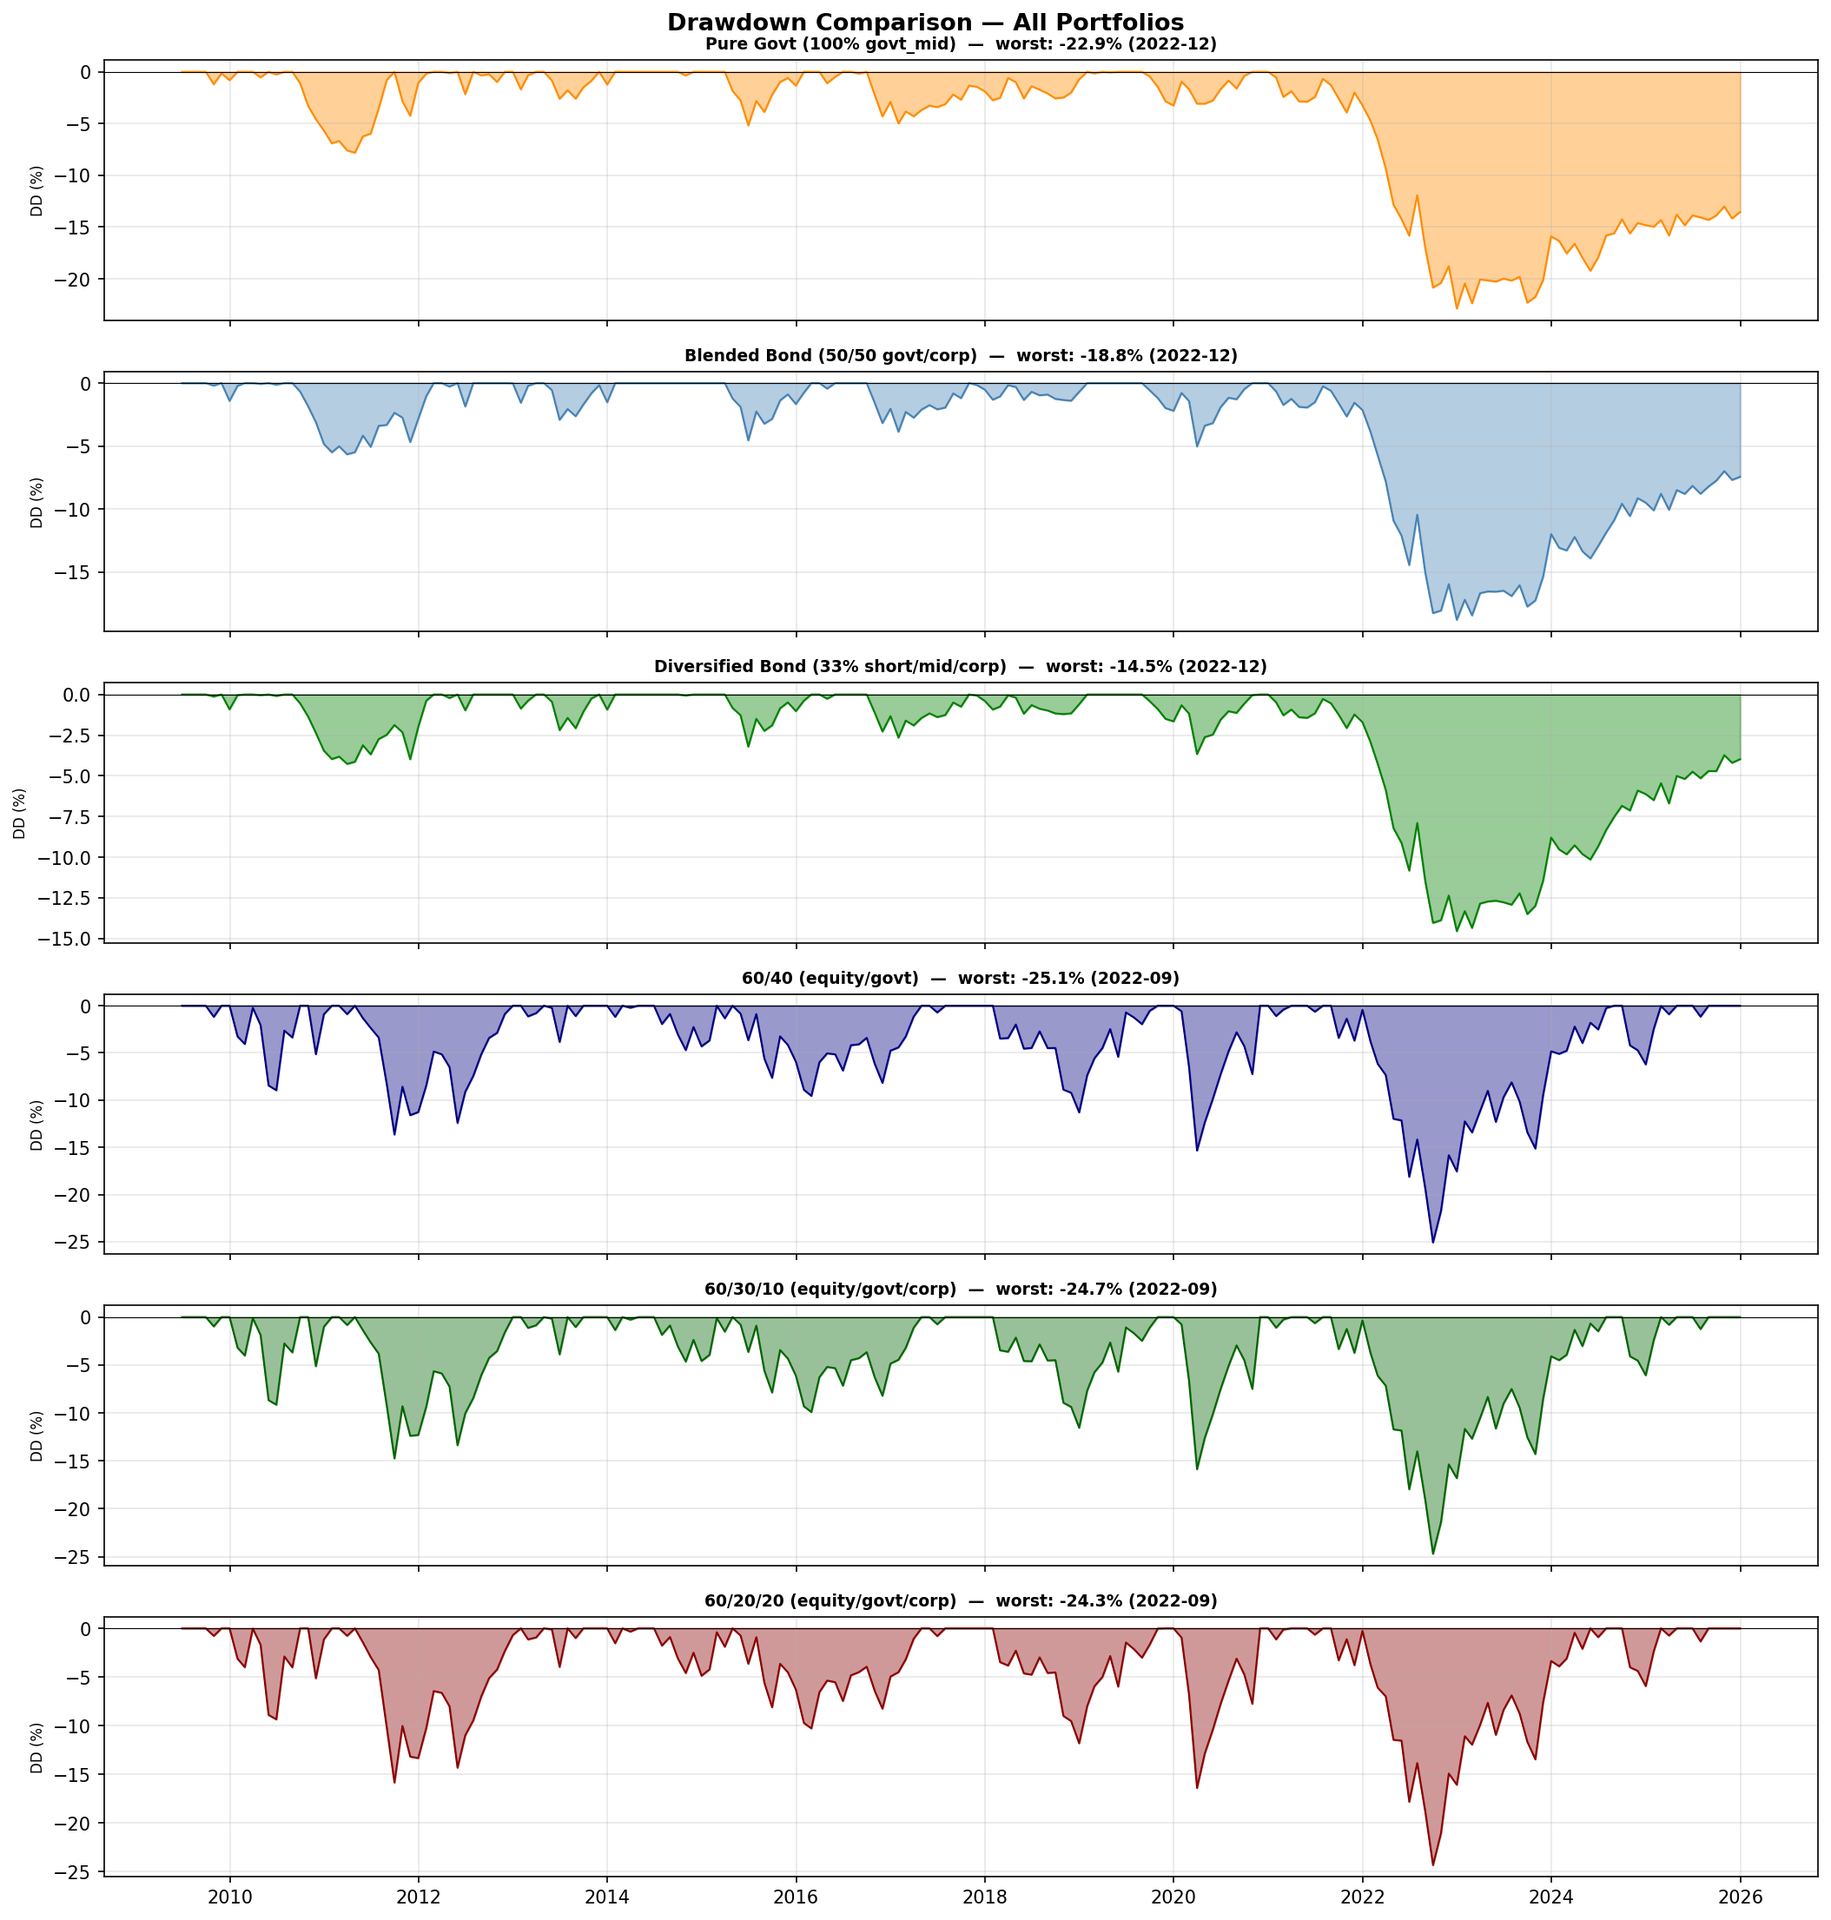
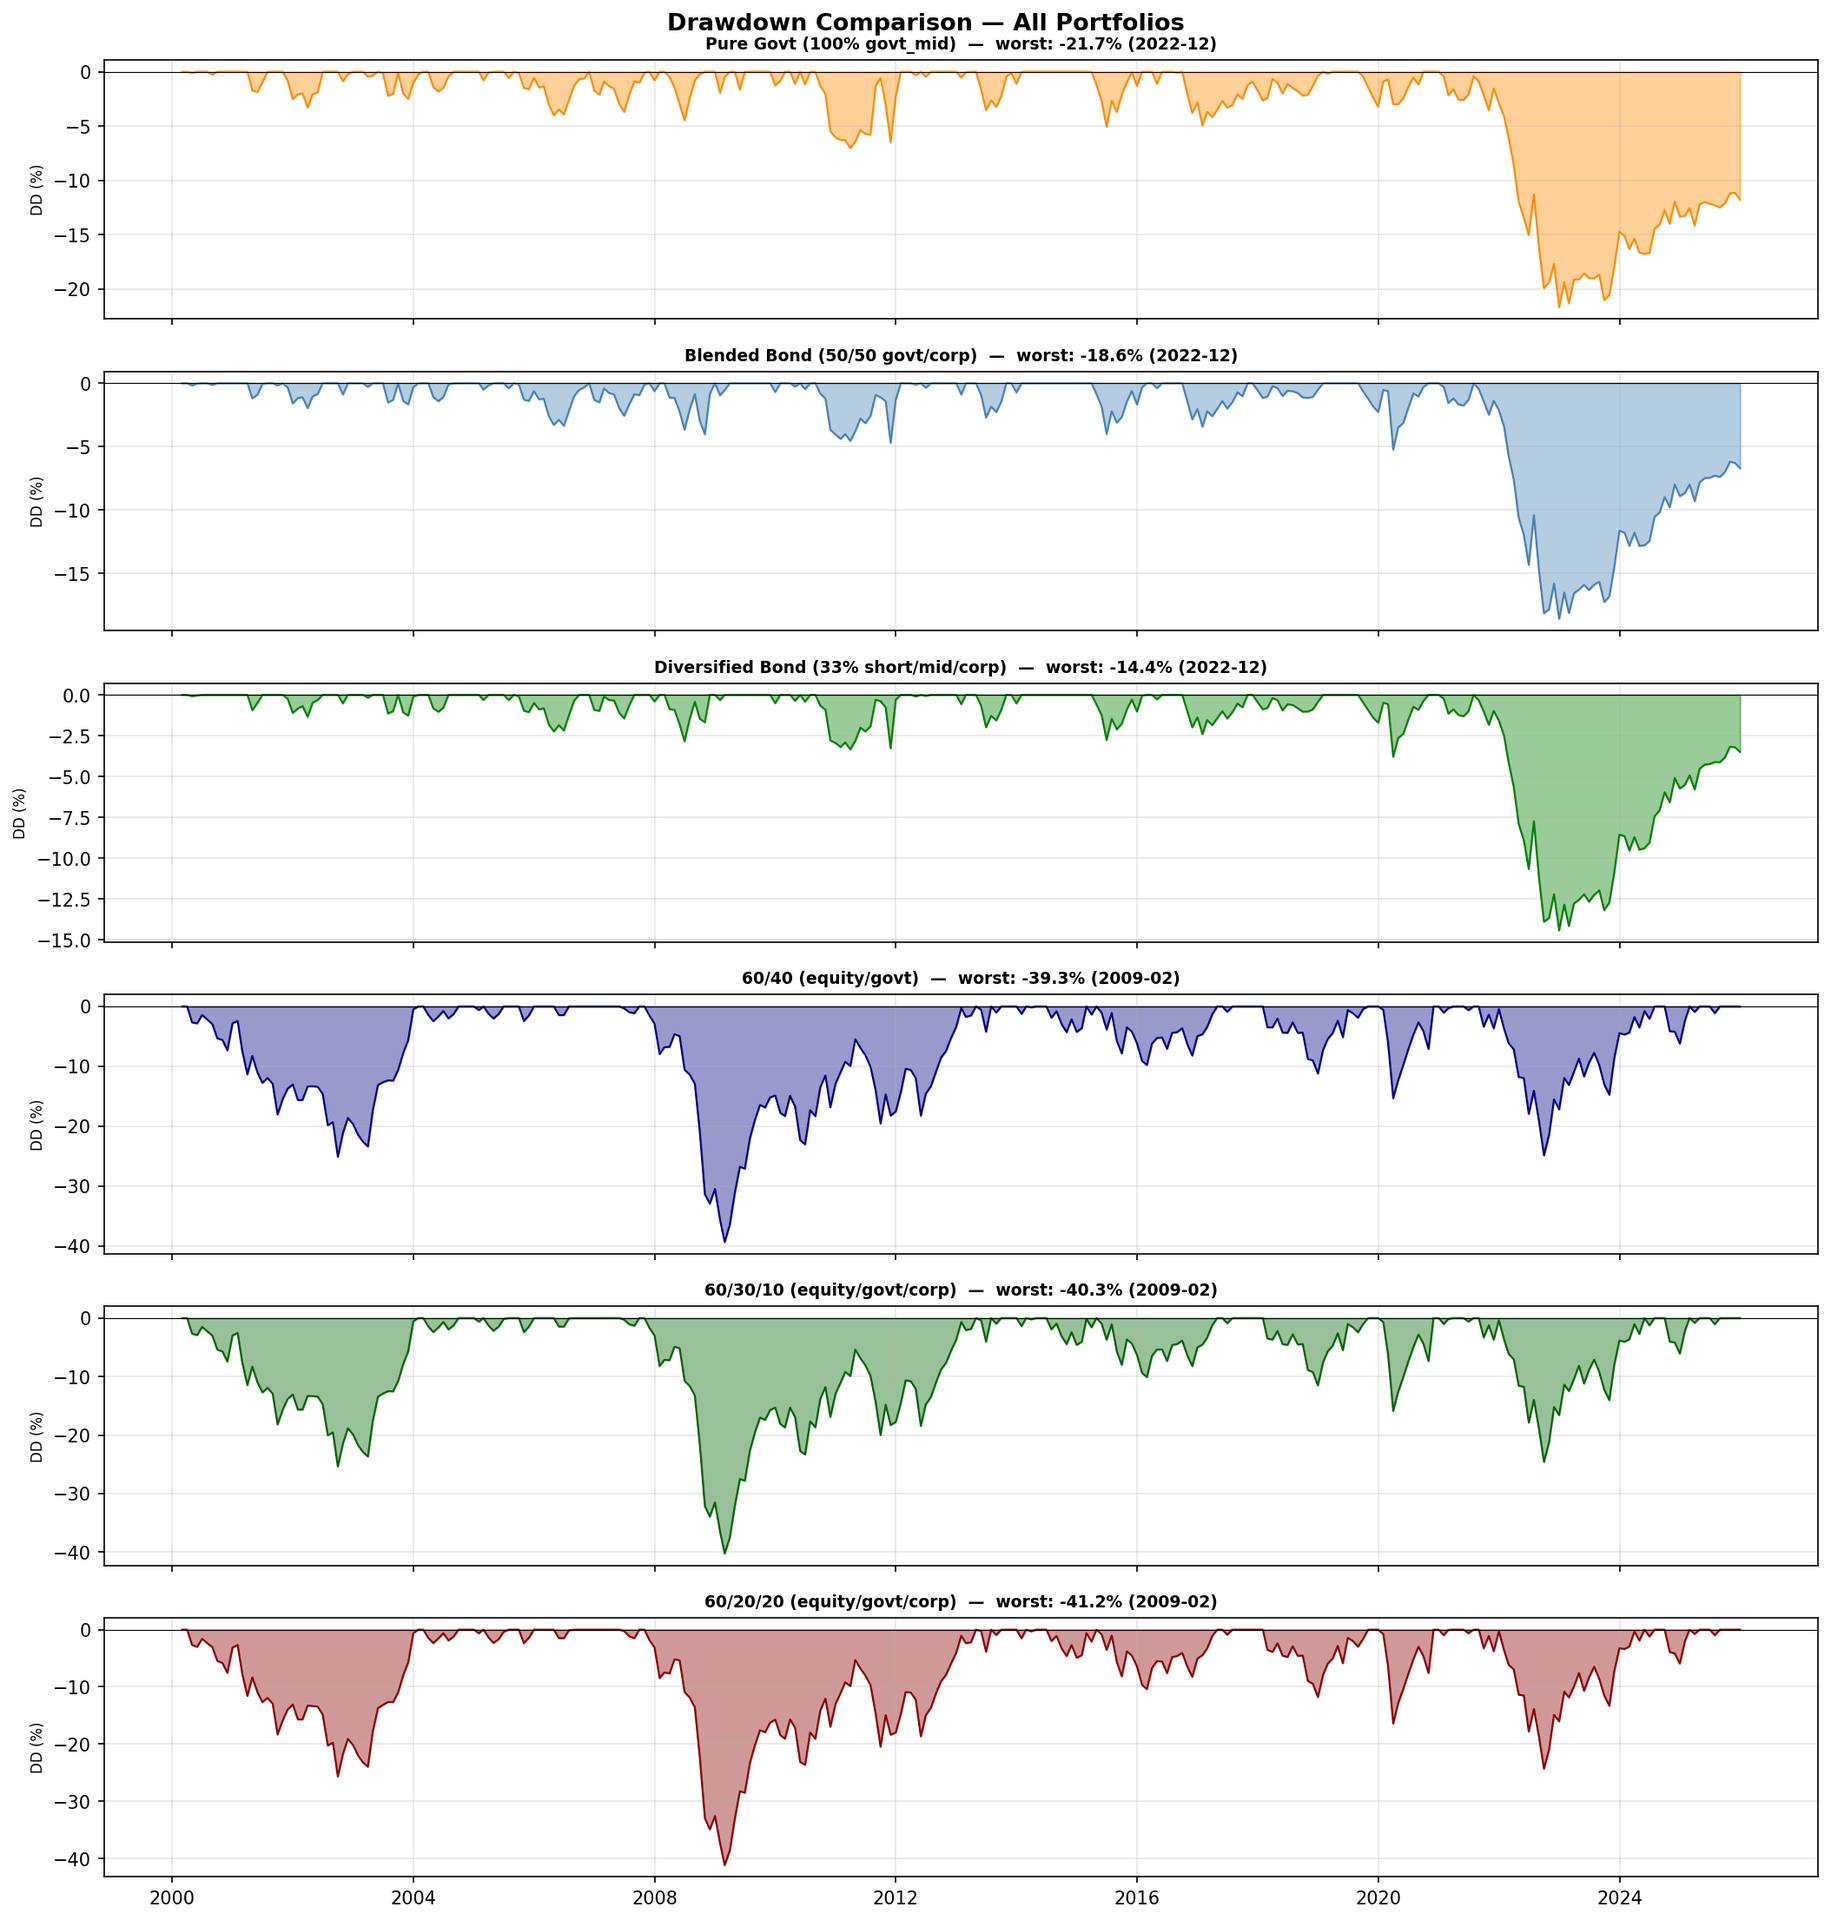
fixed q5 to use full data!

diff --git a/src/Q5_equity_bond_portfolio.py b/src/Q5_equity_bond_portfolio.py
@@ -11,8 +11,10 @@ from src.data_loader import (
     load_msci_europe,
     load_govt_returns_refinitiv,
     load_corp_returns_refinitiv,
+    load_govt_duration_returns_refinitiv,
 )
 from scipy.signal import savgol_filter
+import csv
 
 
 # ══════════════════════════════════════════════════════════════
@@ -22,88 +24,105 @@ from scipy.signal import savgol_filter
 def load_all_returns() -> pd.DataFrame:
     """
     Load and align all return series for PORTFOLIO CONSTRUCTION.
-    Uses ETF data for maturity buckets (short/mid/long) since
-    Refinitiv maturity sub-indices are not yet available.
 
-    Columns after alignment:
-      equity     — MSCI Europe log return
-      govt_short — iShares Euro Govt 1-3Y log return
-      govt_mid   — iShares Euro Govt 7-10Y log return
-      govt_long  — iShares Euro Govt 15-30Y log return
-      corp_ig    — iShares EUR Corp Bond IG log return
-
-    Common sample starts at latest first-valid date (~2009-05).
+    Key fix:
+    - DO NOT dropna globally
+    - Keep full history
+    - Sort index and align safely
     """
-    etf  = load_etf_returns()
-    msci = load_msci_europe()
 
-    # Normalize both to month-end before joining
-    etf.index  = etf.index.to_period("M").to_timestamp("M")
+    msci = load_msci_europe()
+    govt_dur = load_govt_duration_returns_refinitiv()
+    corp_ref = load_corp_returns_refinitiv()
+
+    # Normalize all indices to month-end
     msci.index = msci.index.to_period("M").to_timestamp("M")
 
-    df = pd.DataFrame({
-        "equity":     msci,
-        "govt_short": etf["govt_short_logret"],
-        "govt_mid":   etf["govt_mid_logret"],
-        "govt_long":  etf["govt_long_logret"],
-        "corp_ig":    etf["corp_ig_logret"],
-    }).dropna()
+    if govt_dur is not None and corp_ref is not None:
+        govt_dur.index = govt_dur.index.to_period("M").to_timestamp("M")
+        corp_ref.index = corp_ref.index.to_period("M").to_timestamp("M")
 
-    print(f"\n── Q5 Portfolio Data Coverage (ETF) ──")
-    print(f"  Common sample: {df.index.min().date()} → {df.index.max().date()}")
-    print(f"  Observations:  {len(df)} monthly")
+        df = pd.DataFrame({
+            "equity":     msci,
+            "govt_short": govt_dur["govt_short_logret"],
+            "govt_mid":   govt_dur["govt_mid_logret"],
+            "govt_long":  govt_dur["govt_long_logret"],
+            "corp_ig":    corp_ref,
+        })
+
+        print(f"\n── Q5 Portfolio Data Coverage (Refinitiv iBoxx) ──")
+
+    else:
+        etf = load_etf_returns()
+        etf.index = etf.index.to_period("M").to_timestamp("M")
+
+        df = pd.DataFrame({
+            "equity":     msci,
+            "govt_short": etf["govt_short_logret"],
+            "govt_mid":   etf["govt_mid_logret"],
+            "govt_long":  etf["govt_long_logret"],
+            "corp_ig":    etf["corp_ig_logret"],
+        })
+
+        print(f"\n── Q5 Portfolio Data Coverage (ETF) ──")
+
+    df = df.sort_index()
+
+    print(f"  Full sample (no truncation): {df.index.min().date()} → {df.index.max().date()}")
+    print(f"  Observations (raw): {len(df)}")
 
     return df
 
 
 def load_regression_returns() -> tuple[pd.DataFrame, str]:
     """
-    Load return data for the SYSTEMATIC RISK REGRESSION.
-    Prefers Refinitiv iBoxx (2000–2025) for longer sample.
-    Falls back to ETF data if unavailable.
+    Load return data for regression.
 
-    Returns
-    -------
-    df     : DataFrame with columns ['equity', 'govt', 'corp_ig']
-    source : 'refinitiv' or 'etf'
+    Fix:
+    - Build full dataset first
+    - THEN dropna only on required columns
     """
+
     govt_ref = load_govt_returns_refinitiv()
     corp_ref = load_corp_returns_refinitiv()
     msci     = load_msci_europe()
 
+    # Normalize indices
+    msci.index = msci.index.to_period("M").to_timestamp("M")
+
     if govt_ref is not None and corp_ref is not None and len(govt_ref) > 0 and len(corp_ref) > 0:
-        # ── Refinitiv path: align all three series ──
-        # Normalize to month-end
-        msci.index     = msci.index.to_period("M").to_timestamp("M")
+
         govt_ref.index = govt_ref.index.to_period("M").to_timestamp("M")
         corp_ref.index = corp_ref.index.to_period("M").to_timestamp("M")
 
-        df = pd.DataFrame({
+        df_full = pd.DataFrame({
             "equity":  msci,
             "govt":    govt_ref,
             "corp_ig": corp_ref,
-        }).dropna()
+        }).sort_index()
+
+        # Only drop where regression actually needs data
+        df = df_full.dropna(subset=["equity", "govt", "corp_ig"])
 
         source = "refinitiv"
-        print(f"\n── Q5 Regression Data Coverage (Refinitiv iBoxx) ──")
-        print(f"  Sample: {df.index.min().date()} → {df.index.max().date()}")
-        print(f"  Observations: {len(df)} monthly")
-    else:
-        # ── ETF fallback: use govt_mid as government factor ──
-        etf  = load_etf_returns()
-        etf.index  = etf.index.to_period("M").to_timestamp("M")
-        msci.index = msci.index.to_period("M").to_timestamp("M")
 
-        df = pd.DataFrame({
+    else:
+        etf  = load_etf_returns()
+        etf.index = etf.index.to_period("M").to_timestamp("M")
+
+        df_full = pd.DataFrame({
             "equity":  msci,
             "govt":    etf["govt_mid_logret"],
             "corp_ig": etf["corp_ig_logret"],
-        }).dropna()
+        }).sort_index()
+
+        df = df_full.dropna(subset=["equity", "govt", "corp_ig"])
 
         source = "etf"
-        print(f"\n── Q5 Regression Data Coverage (ETF fallback) ──")
-        print(f"  Sample: {df.index.min().date()} → {df.index.max().date()}")
-        print(f"  Observations: {len(df)} monthly")
+
+    print(f"\n── Q5 Regression Data Coverage ({source.upper()}) ──")
+    print(f"  Sample: {df.index.min().date()} → {df.index.max().date()}")
+    print(f"  Observations: {len(df)} monthly")
 
     return df, source
 
@@ -150,14 +169,20 @@ MIXED_PORTFOLIOS = {
 
 
 def build_portfolio_returns(returns: pd.DataFrame, weights: dict) -> pd.Series:
-    """
-    Compute portfolio log return at each t as weighted sum of asset log returns.
-    r_portfolio_t = sum(w_i * r_i_t)
-    Assumes monthly rebalancing back to target weights.
-    """
-    port_ret = sum(w * returns[asset] for asset, w in weights.items()
-                   if asset in returns.columns)
-    return port_ret
+    df = pd.DataFrame({
+        asset: returns[asset] for asset in weights if asset in returns.columns
+    })
+
+    w = pd.Series(weights)
+
+    def row_port(row):
+        valid = row.notna()
+        if valid.sum() == 0:
+            return np.nan
+        w_adj = w[valid] / w[valid].sum()
+        return np.dot(row[valid], w_adj)
+
+    return df.apply(row_port, axis=1)
 
 
 def build_all_portfolios(returns: pd.DataFrame,
@@ -213,46 +238,28 @@ def compute_all_stats(port_returns: pd.DataFrame) -> pd.DataFrame:
 # ══════════════════════════════════════════════════════════════
 # 4. SYSTEMATIC RISK REGRESSION
 # ══════════════════════════════════════════════════════════════
+def run_systematic_risk_regression(reg_returns, source):
 
-def run_systematic_risk_regression(reg_returns: pd.DataFrame,
-                                    source: str) -> sm.regression.linear_model.RegressionResultsWrapper:
-    """
-    Fama-style factor regression to decompose corporate bond returns:
+    df = reg_returns.copy()
 
-    corp_ig_t = alpha + beta_equity * equity_t + beta_govt * govt_t + epsilon_t
+    # Force numeric
+    for col in ["equity", "govt", "corp_ig"]:
+        df[col] = pd.to_numeric(df[col], errors="coerce")
 
-    When source='refinitiv', govt factor is the all-maturity iBoxx EUR Sovereigns
-    index (broader factor, 2000-2025). When source='etf', govt factor is the
-    7-10Y maturity bucket (2009-2025).
+    # Drop bad rows
+    df = df.dropna(subset=["equity", "govt", "corp_ig"])
 
-    Uses OLS with HC3 robust standard errors.
-    """
-    y = reg_returns["corp_ig"]
-    X = sm.add_constant(pd.DataFrame({
-        "equity": reg_returns["equity"],
-        "govt":   reg_returns["govt"],
-    }))
+    # Ensure float dtype
+    X = df[["equity", "govt"]].astype(float)
+    y = df["corp_ig"].astype(float)
+
+    X = sm.add_constant(X)
 
     model = sm.OLS(y, X).fit(cov_type="HC3")
 
-    govt_factor_desc = ("iBoxx EUR Sovereigns (all mat.)" if source == "refinitiv"
-                        else "Govt Mid 7-10Y ETF")
-
-    print(f"\n── Q5 Systematic Risk Regression ({source.upper()}) ──")
-    print(f"  Govt factor:      {govt_factor_desc}")
-    print(f"  Sample:           {reg_returns.index.min().date()} → "
-          f"{reg_returns.index.max().date()} ({len(reg_returns)} obs)")
-    print(f"  Alpha (monthly):  {model.params['const']:.4f}  "
-          f"(p={model.pvalues['const']:.3f})  "
-          f"ann. = {model.params['const']*12*100:.2f}%")
-    print(f"  Beta equity:      {model.params['equity']:.4f}  "
-          f"(p={model.pvalues['equity']:.3f})")
-    print(f"  Beta govt:        {model.params['govt']:.4f}  "
-          f"(p={model.pvalues['govt']:.3f})")
-    print(f"  R-squared:        {model.rsquared:.3f}")
+    print("Regression OK — n =", len(df))  # sanity
 
     return model
-
 
 def compute_rolling_equity_beta(returns: pd.DataFrame,
                                  window: int = 36) -> pd.Series:
@@ -331,6 +338,7 @@ def plot_bond_portfolios_cumulative(port_returns: pd.DataFrame) -> plt.Figure:
     fig, ax = plt.subplots(figsize=(14, 6))
 
     for (name, series), color in zip(port_returns.items(), colors):
+        series = series.dropna()  # ← ADD THIS
         cum = np.exp(series.cumsum())
         cum = cum / cum.iloc[0] * 100
         ax.plot(cum.index, cum, label=name.replace("\n", " "),
@@ -788,6 +796,7 @@ def run_all() -> dict:
       - Systematic risk regression uses Refinitiv iBoxx (longer sample)
         with ETF fallback if unavailable
     """
+    print("RUN_ALL EXECUTED NEW VERSION top")
     # ── Load data ───────────────────────────────────────────
     returns = load_all_returns()                          # ETF-based, for portfolios
     reg_returns, reg_source = load_regression_returns()   # Refinitiv-preferred, for regression
@@ -810,6 +819,8 @@ def run_all() -> dict:
 
     # ── Systematic risk (uses longer Refinitiv sample if available) ──
     model = run_systematic_risk_regression(reg_returns, reg_source)
+
+    print("UPDATED RUN EXECUTED  bottom")
 
     # ── Figures ─────────────────────────────────────────────
     return {

diff --git a/main.py b/main.py
@@ -10,8 +10,15 @@ import src.Q3_duration_risk        as q3
 import src.Q4_credit_markets       as q4
 import src.Q5_equity_bond_portfolio as q5
 import matplotlib.pyplot as plt
+import csv
+import time
+import importlib
+import src.Q5_equity_bond_portfolio as q5
+import importlib
+import importlib
+import src.Q5_equity_bond_portfolio as q5
 
-OUTPUTS.mkdir(exist_ok=True)
+q5 = importlib.reload(q5)
 
 def save_figures(figures: dict):
     for filename, fig in figures.items():
@@ -25,7 +32,6 @@ def save_console_summary(outputs_path):
     Save all key numerical results to a clean CSV and formatted text file
     for easy copy-paste into the report.
     """
-    import csv
 
     # ── Q2 Regression Results ─────────────────────────────
     q2_rows = [
@@ -134,10 +140,10 @@ def run_module(label: str, module):
     except Exception as e:
         print(f"  ✗ failed — {e}\n")
 
-run_module("Q1: Yield Curve Dynamics",          q1)
-run_module("Q2: Forward Rates",                 q2)
-run_module("Q3: Duration Risk",                 q3)
-run_module("Q4: Credit Markets",                q4)
+#run_module("Q1: Yield Curve Dynamics",          q1)
+#run_module("Q2: Forward Rates",                 q2)
+#run_module("Q3: Duration Risk",                 q3)
+#run_module("Q4: Credit Markets",                q4)
 run_module("Q5: Portfolio & Systematic Risk",   q5)
 
 print("\n── Saving numerical summary tables ──")

diff --git a/data/data_import.py b/data/data_import.py
@@ -21,8 +21,8 @@ DATA_RAW.mkdir(exist_ok=True)
 # ── SELECT WHAT TO IMPORT ─────────────────────────────────────
 import_ecb_spot     = False
 import_etf_data     = False
-import_msci         = False
-import_refinitiv    = True   # ← new flag
+import_msci         = True
+import_refinitiv    = False   # ← new flag
 import_msci_refinitiv = False
 
 ##########################
